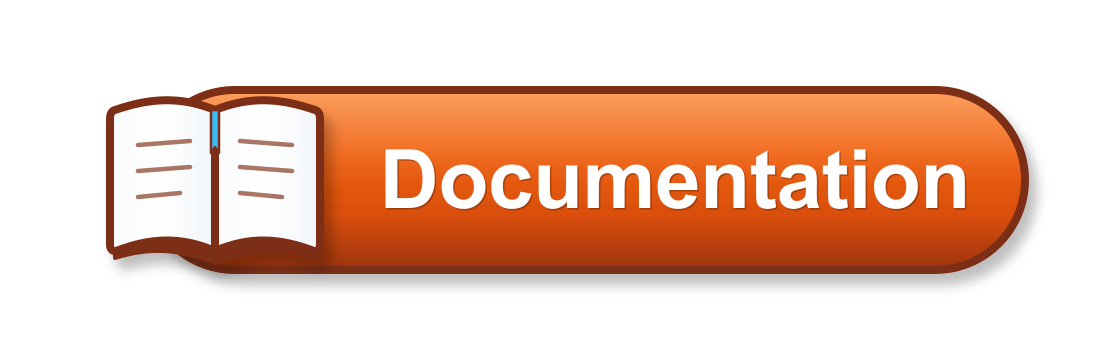
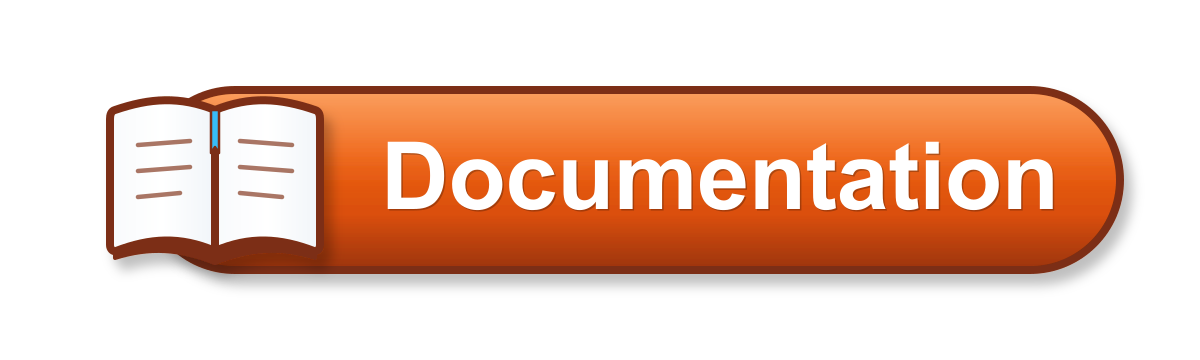
feat(ui): grossir le texte Documentation (94px) et élargir le bouton à 1200px (200x60)

diff --git a/README.md b/README.md
@@ -29,7 +29,7 @@
   <br><br>
   <a href="#téléchargements"><img src="client/images/download.png" alt="Téléchargements" width="160" height="60"></a>
   &emsp;
-  <a href="https://jlehuen.github.io/CodeLab/doc-fr/"><img src="client/images/documentation.png" alt="Documentation" width="184" height="60"></a>
+  <a href="https://jlehuen.github.io/CodeLab/doc-fr/"><img src="client/images/documentation.png" alt="Documentation" width="200" height="60"></a>
 </p>
 
 **CodeLab** est un environnement pédagogique dédié à l'apprentissage de la programmation en collège, lycée et premières années d'études supérieures. Son originalité est qu'il propose des alternatives ludiques ou techniques aux traditionnelles interactions écran-clavier pour la conception des activités pédagogiques, au travers de l'utilisation de "modules applicatifs". Ces modules, disponibles sous la forme de plugins, peuvent être des **visualisations**, des **panneaux de contrôle**, des **simulateurs**, et autres systèmes temps-réel. Chaque module est l'association d'une **IHM** (Interface Homme-Machine) et d'une interface de programmation applicative (souvent désignée par le terme **API** pour Application Programming Interface), disponible pour chacun des langages supportés par CodeLab. Les apprenants peuvent ainsi se focaliser sur les aspects algorithmiques et sur le codage, tout en travaillant sur des applications qui possèdent des caractéristiques riches et motivantes :

diff --git a/README.en.md b/README.en.md
@@ -29,7 +29,7 @@
   <br><br>
   <a href="#downloads"><img src="client/images/download.png" alt="Downloads" width="160" height="60"></a>
   &emsp;
-  <a href="https://jlehuen.github.io/CodeLab/doc-en/"><img src="client/images/documentation.png" alt="Documentation" width="184" height="60"></a>
+  <a href="https://jlehuen.github.io/CodeLab/doc-en/"><img src="client/images/documentation.png" alt="Documentation" width="200" height="60"></a>
 </p>
 
 **CodeLab** is an educational programming environment dedicated to teaching and learning programming in middle schools, high schools, and introductory higher education courses. Its key innovation is offering playful and interactive alternatives to traditional screen-keyboard interactions for pedagogical activities through "application modules". These modules, available as plugins, include **visualizations**, **control panels**, **simulators**, and other real-time systems. Each module pairs a **GUI** (Graphical User Interface) with an application programming interface (**API**) available across all languages supported by CodeLab. Learners can thus focus on algorithms and coding while interacting with rich, engaging, and motivating applications:
